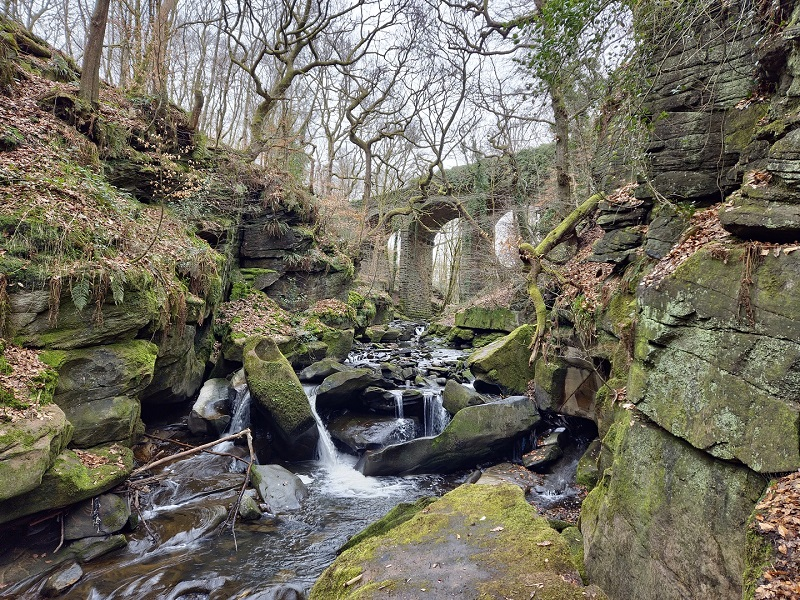
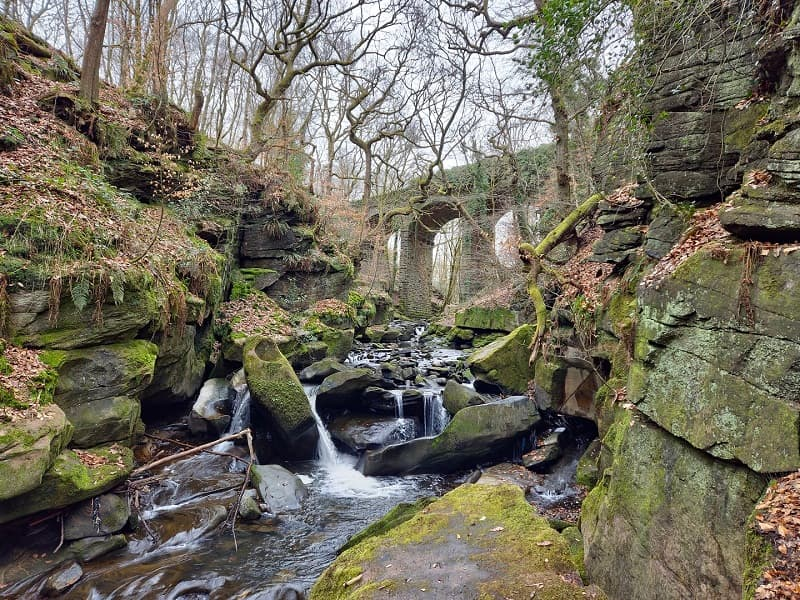
compressed all images to improve performance

diff --git a/README.md b/README.md
@@ -54,7 +54,20 @@ For the landing video, Coverr was used: https://coverr.co/
 
 Microsoft's Copilot AI was used to help generate the bee image. 
 ## Testing
+Testing was carried out using the following methods:
+* running Lighthouse on each live page
+* putting HTML through the W3C validator on each live page
+* putting CSS through the W3C validator on each live page
+* responsiveness manual testing from 320px wide to 1440px wide screens
+* form entry manual testing
+* user testing for bug and feedback
+### Lighthouse reports
+#### Contact Us page
+![alt text](image-1.png)
 
+#### Gallery page
+![alt text](image-2.png)
+Initial testing results show clear performance issues related to image loading. Lighthouse suggests changing image formats
 ## Deployment
 Deployment is done using Github and Github Pages. 
 
@@ -64,7 +77,7 @@ https://github.com/RSapsford89/a-walk-in-the-park
 
 The repository consists of the main branch and one merged branch 'new-homepage-layout'. Midway through the project, feedback suggested a more spacious and better colour palette would suit the site's design better. Once the new page layout and colours had been built and tested on it's own branch it could then be merged to the Main branch.
 
-Github Projects was used to log some bugs and feature changes through the development of the site. This is the kanban style visual layout to help monitor tasks an also mark off completed ones:
+Github Projects was used to log some bugs and feature changes through the development of the site. This is the kanban style visual layout to help monitor tasks and also mark off completed ones:
  https://github.com/users/RSapsford89/projects/1
 
 
@@ -81,13 +94,13 @@ Hosting is carried out via Github Pages. The creation of this is done by choosin
 
 
 * signup btn should change to better contrasting colour
-* signup btn initial state colours need setting
+* 
 * add img alt texts
 * sort out the buttons! Colors once highlighted/pressed should not be blue.
 * add table styles if keeping -looks ok in white, but need to scale for mobile
 * get rid of accessiblity card section?
 
-* fix footer colour issues
+* 
 * overlay first line to the embed video in sm view?
 * semantics need adding/checking
 * are img titles req? y
